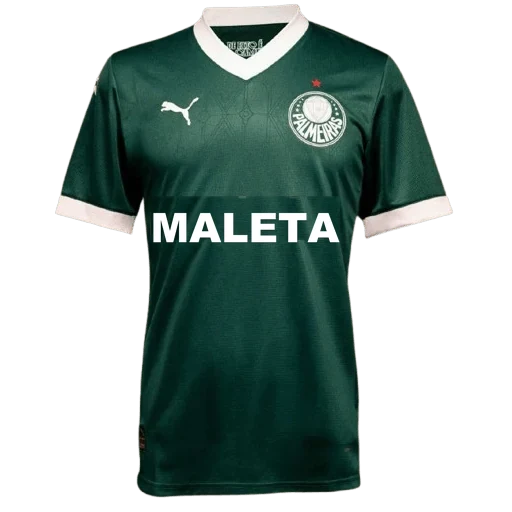
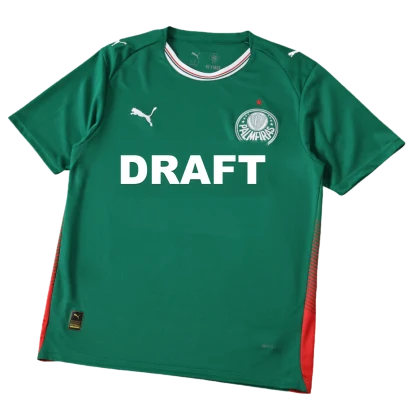
Vestiário: 22 camisas novas (Brasil e Europa), frente e costas do mesmo produto e do mesmo tamanho

diff --git a/src/home.ts b/src/home.ts
@@ -7,50 +7,50 @@ import {$, BODE, BODEHEAD, dayNum, esc, store, toast, todayKey} from "./core";
 import {GAMES, KIND, MODE, clockStop, dayLevel, dayLockKey, dayResult, drawFire, fireHTML, fmtDur, gameRng, isHard, loadStreak, resultKey, share, verdict} from "./engine";
 import {ST} from "./state";
 import {art} from "./art";
-import b0 from "./assets/kitback-flamengo.webp?url";
-import b1 from "./assets/kitback-real-madrid.webp?url";
-import b2 from "./assets/kitback-palmeiras.webp?url";
-import b3 from "./assets/kitback-barcelona.webp?url";
-import b4 from "./assets/kitback-corinthians.webp?url";
-import b5 from "./assets/kitback-man-utd.webp?url";
-import b6 from "./assets/kitback-sao-paulo.webp?url";
-import b7 from "./assets/kitback-liverpool.webp?url";
-import b8 from "./assets/kitback-santos.webp?url";
-import b9 from "./assets/kitback-bayern.webp?url";
-import b10 from "./assets/kitback-gremio.webp?url";
-import b11 from "./assets/kitback-juventus.webp?url";
-import b12 from "./assets/kitback-internacional.webp?url";
-import b13 from "./assets/kitback-ac-milan.webp?url";
-import b14 from "./assets/kitback-fluminense.webp?url";
-import b15 from "./assets/kitback-psg.webp?url";
-import b16 from "./assets/kitback-vasco.webp?url";
-import b17 from "./assets/kitback-chelsea.webp?url";
-import b18 from "./assets/kitback-botafogo.webp?url";
-import b19 from "./assets/kitback-arsenal.webp?url";
-import b20 from "./assets/kitback-cruzeiro.webp?url";
-import b21 from "./assets/kitback-dortmund.webp?url";
-import k0 from "./assets/kit-flamengo.webp?url";
+import k0 from "./assets/kit-palmeiras.webp?url";
+import b0 from "./assets/kitback-palmeiras.webp?url";
 import k1 from "./assets/kit-real-madrid.webp?url";
-import k2 from "./assets/kit-palmeiras.webp?url";
+import b1 from "./assets/kitback-real-madrid.webp?url";
+import k2 from "./assets/kit-corinthians.webp?url";
+import b2 from "./assets/kitback-corinthians.webp?url";
 import k3 from "./assets/kit-barcelona.webp?url";
-import k4 from "./assets/kit-corinthians.webp?url";
+import b3 from "./assets/kitback-barcelona.webp?url";
+import k4 from "./assets/kit-sao-paulo.webp?url";
+import b4 from "./assets/kitback-sao-paulo.webp?url";
 import k5 from "./assets/kit-man-utd.webp?url";
-import k6 from "./assets/kit-sao-paulo.webp?url";
+import b5 from "./assets/kitback-man-utd.webp?url";
+import k6 from "./assets/kit-fluminense.webp?url";
+import b6 from "./assets/kitback-fluminense.webp?url";
 import k7 from "./assets/kit-liverpool.webp?url";
-import k8 from "./assets/kit-santos.webp?url";
+import b7 from "./assets/kitback-liverpool.webp?url";
+import k8 from "./assets/kit-botafogo.webp?url";
+import b8 from "./assets/kitback-botafogo.webp?url";
 import k9 from "./assets/kit-bayern.webp?url";
-import k10 from "./assets/kit-gremio.webp?url";
+import b9 from "./assets/kitback-bayern.webp?url";
+import k10 from "./assets/kit-cruzeiro.webp?url";
+import b10 from "./assets/kitback-cruzeiro.webp?url";
 import k11 from "./assets/kit-juventus.webp?url";
-import k12 from "./assets/kit-internacional.webp?url";
-import k13 from "./assets/kit-ac-milan.webp?url";
-import k14 from "./assets/kit-fluminense.webp?url";
-import k15 from "./assets/kit-psg.webp?url";
-import k16 from "./assets/kit-vasco.webp?url";
-import k17 from "./assets/kit-chelsea.webp?url";
-import k18 from "./assets/kit-botafogo.webp?url";
-import k19 from "./assets/kit-arsenal.webp?url";
-import k20 from "./assets/kit-cruzeiro.webp?url";
-import k21 from "./assets/kit-dortmund.webp?url";
+import b11 from "./assets/kitback-juventus.webp?url";
+import k12 from "./assets/kit-athletico-pr.webp?url";
+import b12 from "./assets/kitback-athletico-pr.webp?url";
+import k13 from "./assets/kit-arsenal.webp?url";
+import b13 from "./assets/kitback-arsenal.webp?url";
+import k14 from "./assets/kit-palmeiras2.webp?url";
+import b14 from "./assets/kitback-palmeiras2.webp?url";
+import k15 from "./assets/kit-chelsea.webp?url";
+import b15 from "./assets/kitback-chelsea.webp?url";
+import k16 from "./assets/kit-athletico-pr2.webp?url";
+import b16 from "./assets/kitback-athletico-pr2.webp?url";
+import k17 from "./assets/kit-psg.webp?url";
+import b17 from "./assets/kitback-psg.webp?url";
+import k18 from "./assets/kit-inter.webp?url";
+import b18 from "./assets/kitback-inter.webp?url";
+import k19 from "./assets/kit-napoli.webp?url";
+import b19 from "./assets/kitback-napoli.webp?url";
+import k20 from "./assets/kit-atletico-madrid.webp?url";
+import b20 from "./assets/kitback-atletico-madrid.webp?url";
+import k21 from "./assets/kit-roma.webp?url";
+import b21 from "./assets/kitback-roma.webp?url";
 
 /* ---------- telas ---------- */
 export const NEW=["draft","leilao","maleta","reconstruindo","camisa","carreira","questoes","forca","velha","entrosa","piramide","top10","top100"];
@@ -80,7 +80,7 @@ export function stampFor(id,d,res){const v=verdict(id,res);
   return`<div class="stamp ${v.cls}"><span class="sv">${esc(v.cls==="score"?v.word:v.word==="GANHOU"?"VENCEU":v.word)}</span><span class="sl">${d==="hard"?"DIFÍCIL":"NORMAL"}</span></div>`}
 export function cleanup(){clockStop();if(ST.CLEAN){ST.CLEAN();ST.CLEAN=null}document.querySelectorAll(".modal").forEach(m=>m.remove())}
 /* camisas da tela inicial: cada jogo é uma camisa; ao clicar abre o card com as regras */
-const KITB=[b0,b1,b2,b3,b4,b5,b6,b7,b8,b9,b10,b11,b12,b13,b14,b15,b16,b17,b18,b19,b20,b21],KITS=[k0,k1,k2,k3,k4,k5,k6,k7,k8,k9,k10,k11,k12,k13,k14,k15,k16,k17,k18,k19,k20,k21],KITN=["flamengo", "real-madrid", "palmeiras", "barcelona", "corinthians", "man-utd", "sao-paulo", "liverpool", "santos", "bayern", "gremio", "juventus", "internacional", "ac-milan", "fluminense", "psg", "vasco", "chelsea", "botafogo", "arsenal", "cruzeiro", "dortmund"];
+const KITB=[b0,b1,b2,b3,b4,b5,b6,b7,b8,b9,b10,b11,b12,b13,b14,b15,b16,b17,b18,b19,b20,b21],KITS=[k0,k1,k2,k3,k4,k5,k6,k7,k8,k9,k10,k11,k12,k13,k14,k15,k16,k17,k18,k19,k20,k21],KITN=["palmeiras", "real-madrid", "corinthians", "barcelona", "sao-paulo", "man-utd", "fluminense", "liverpool", "botafogo", "bayern", "cruzeiro", "juventus", "athletico-pr", "arsenal", "palmeiras2", "chelsea", "athletico-pr2", "psg", "inter", "napoli", "atletico-madrid", "roma"];
 function gameModal(id){const g=GAMES[id];if(!g)return;document.querySelectorAll(".jmodal").forEach(m=>m.remove());
   const dr=MODE.free||g.multi?null:dayResult(id),cf=!MODE.multi&&!MODE.free&&g.cardFoot?g.cardFoot():null,v=dr?verdict(id,dr.res):null;
   const st=cf?cf:v?`<span class="res ${v.cls}">${v.cls==="score"?esc(v.word)+(KIND[id]?" PTS":" SEGUIDOS"):v.word==="GANHOU"?"VENCEU":v.word}</span>`:MODE.free?`<span class="chip rec">${fireHTML(Math.max(bestOf(id,"normal"),bestOf(id,"hard")))} recorde</span>`:"";

diff --git a/tools/kits_pairs.py b/tools/kits_pairs.py
@@ -1,0 +1,65 @@
+# Camisas do vestiário: frente e costas do mesmo produto (recortadas por usoa_pairs.py, mesmo tamanho).
+# Frente: apaga o patrocinador do peito (ou escreve no peito liso) e põe o nome do jogo. Costas: nome do jogo + número.
+# Uso: python3 tools/kits_pairs.py <pasta dos recortes>   ->  src/assets/kit-<slug>.webp e kitback-<slug>.webp
+import sys, os, cv2, numpy as np
+from PIL import Image, ImageDraw, ImageFont
+F="/System/Library/Fonts/Supplemental/";BLACK,NARROW=F+"Arial Black.ttf",F+"Arial Narrow Bold.ttf"
+C=lambda dy:("c",0,dy)
+NAMES=["DRAFT","LEILÃO","MALETA","RECONSTRUINDO","CAMISA E CONTA","CARREIRA","QUESTIONAMENTOS","FORCA","JOGO DA VELHA","ENTROSAMENTO","PIRÂMIDE","TOP 10","TOP 100","FUTGEO","QUEM É?","GRADE","CONEXÕES","BODLE","IMPOSTOR","ESCUDO","BINGO","MAIS VELHO?"]
+ORDER=["palmeiras","real-madrid","corinthians","barcelona","sao-paulo","man-utd","fluminense","liverpool","botafogo","bayern","cruzeiro","juventus","athletico-pr","arsenal","palmeiras2","chelsea","athletico-pr2","psg","inter","napoli","atletico-madrid","roma"]
+# slug: (caixa do patrocinador, modo, caixa do texto se não houver patrocinador, cor, contorno, [apagar nas costas])
+D={
+"palmeiras":((116,140,268,196),C(90),None,"#fff",None,[((146,66,262,104),C(60)),((230,44,262,64),C(60))]),
+"palmeiras2":((122,152,276,196),"i",None,"#0b5d3b",None,[((156,88,278,128),"i")]),
+"real-madrid":((146,154,266,218),C(95),None,"#14213d",None,[]),
+"corinthians":(None,None,(130,150,290,200),"#111",None,[]),
+"barcelona":((146,156,284,200),C(95),None,"#ffd21f","#0b1b4d",[((166,296,268,328),C(-60)),((196,48,222,62),"i")]),
+"sao-paulo":(None,None,(130,198,270,250),"#14213d",None,[]),
+"man-utd":((136,158,286,240),"i",None,"#fff",None,[]),
+"fluminense":((128,164,274,206),C(90),None,"#fff","#0b3b2a",[((196,34,226,48),"i")]),
+"liverpool":((142,162,282,212),C(90),None,"#fff",None,[]),
+"botafogo":((134,172,288,290),C(60),None,"#111",None,[((184,66,244,86),"i"),((194,298,240,314),"i")]),
+"bayern":((154,130,240,234),C(100),None,"#fff",None,[((140,58,236,104),C(50))]),
+"cruzeiro":(None,None,(130,150,290,200),"#fff",None,[((192,50,226,66),"i")]),
+"juventus":(None,None,(130,150,290,200),"#111","#fff",[]),
+"athletico-pr":(None,None,(130,150,290,200),"#fff","#111",[((188,40,240,60),"i")]),
+"arsenal":((136,150,286,215),C(90),None,"#fff",None,[((190,48,236,64),"i")]),
+"chelsea":(None,None,(130,150,290,200),"#fff",None,[((230,38,262,54),"i")]),
+"athletico-pr2":(None,None,(130,150,290,200),"#111",None,[((172,24,212,44),"i")]),
+"psg":((146,150,274,206),C(90),None,"#fff",None,[]),
+"inter":((126,134,276,190),C(80),None,"#fff","#0b1b4d",[]),
+"napoli":((146,156,294,204),C(100),None,"#fff",None,[]),
+"atletico-madrid":((146,160,300,265),C(105),None,"#14213d","#fff",[((200,56,230,72),"i")]),
+"roma":((178,142,268,262),"i",None,"#ffd21f",None,[]),
+}
+def erase(a,box,mode):
+    x0,y0,x1,y1=box;b=a.copy()
+    if mode=="i":
+        m=np.zeros(a.shape[:2],np.uint8);m[y0:y1,x0:x1]=255;b[:,:,:3]=cv2.inpaint(np.ascontiguousarray(a[:,:,:3]),m,5,cv2.INPAINT_TELEA);return b
+    _,dx,dy=mode;b[y0:y1,x0:x1]=a[y0+dy:y1+dy,x0+dx:x1+dx]
+    m=np.zeros(a.shape[:2],np.float32);m[y0:y1,x0:x1]=1;m=cv2.GaussianBlur(m,(0,0),1.6)[...,None];return (a*(1-m)+b*m).astype(np.uint8)
+def put(ov,txt,cx,cy,maxw,maxh,font,col,stroke,S):
+    for sz in range(220,6,-1):
+        f=ImageFont.truetype(font,sz*S);w=f.getlength(txt)
+        if w<=maxw*S and sz*0.74<=maxh:break
+    ImageDraw.Draw(ov).text((cx*S-w/2,cy*S),txt,font=f,fill=col,stroke_width=int(sz*S*0.06) if stroke else 0,stroke_fill=stroke or col,anchor="lm")
+def finish(a,items,col,stroke):
+    im=Image.fromarray(a);S=4;ov=Image.new("RGBA",(420*S,420*S),(0,0,0,0))
+    for t in items:put(ov,*t,col,stroke,S)
+    ov=ov.resize(im.size,Image.LANCZOS);sh=Image.new("RGBA",im.size,(0,0,0,0));sh.paste((0,0,0,55),(0,1),ov.split()[3])
+    return Image.alpha_composite(Image.alpha_composite(im,sh),ov)
+for i,club in enumerate(ORDER):
+    nm=NAMES[i];one=nm.replace("?","");box,mode,tb,col,stroke,berase=D[club]
+    fnt=NARROW if len(one)>8 else BLACK
+    # frente
+    a=cv2.cvtColor(cv2.imread(f"{sys.argv[1]}/{club}_f.png",cv2.IMREAD_UNCHANGED),cv2.COLOR_BGRA2RGBA)
+    if box:a=erase(a,box,mode)
+    bx=box or tb;x0,y0,x1,y1=bx;cx,cy=(x0+x1)/2,(y0+y1)/2
+    # centraliza no corpo da camisa quando o patrocinador está deslocado
+    finish(a,[(one if nm!="QUEM É?" else nm,cx,cy,max(x1-x0,min(168,len(one)*12)),max(y1-y0,30),fnt)],col,stroke).save(f"src/assets/kit-{club}.webp","WEBP",quality=88,method=4)
+    # costas
+    a=cv2.cvtColor(cv2.imread(f"{sys.argv[1]}/{club}_b.png",cv2.IMREAD_UNCHANGED),cv2.COLOR_BGRA2RGBA)
+    for b,m in berase:a=erase(a,b,m)
+    ys,xs=np.where(a[...,3]>128);y0,y1,x0,x1=ys.min(),ys.max(),xs.min(),xs.max();h,w=y1-y0,x1-x0;cx=(x0+x1)/2;mw=w*0.46
+    finish(a,[(one,cx,y0+h*0.22,mw,h*0.07,fnt),(f"{i+1:02d}",cx,y0+h*0.46,mw,h*0.27,BLACK)],col,stroke).save(f"src/assets/kitback-{club}.webp","WEBP",quality=88,method=4)
+    print(club,nm)

diff --git a/tools/usoa_pairs.py b/tools/usoa_pairs.py
@@ -1,0 +1,34 @@
+# Recorta frente e costas (fotos planas do usoa10, mesmo enquadramento) com o MESMO recorte/escala, para ficarem do mesmo tamanho.
+# Uso: python3 tools/usoa_pairs.py <pasta com <clube>/0.webp (frente) e 1.webp (costas)> <pasta de saída>
+import cv2, numpy as np, sys, os
+SRC,OUT=sys.argv[1],sys.argv[2];os.makedirs(OUT,exist_ok=True)
+def mask(im):
+    h,w=im.shape[:2];fl=im.copy();ff=np.zeros((h+2,w+2),np.uint8)
+    for sx,sy in [(1,1),(w-2,1),(1,h-2),(w-2,h-2),(w//2,1),(w//2,h-2),(1,h//2),(w-2,h//2)]:
+        if im[sy,sx].min()>235:cv2.floodFill(fl,ff,(sx,sy),(0,0,0),(5,5,5),(5,5,5),cv2.FLOODFILL_MASK_ONLY|cv2.FLOODFILL_FIXED_RANGE|(255<<8))
+    m=np.where(ff[1:-1,1:-1]>0,0,255).astype(np.uint8)
+    n,lab,st,_=cv2.connectedComponentsWithStats(m)
+    if n>1:m=np.where(lab==1+np.argmax(st[1:,4]),255,0).astype(np.uint8)
+    m=cv2.morphologyEx(m,cv2.MORPH_CLOSE,np.ones((7,7),np.uint8))
+    cnt,_=cv2.findContours(m,cv2.RETR_EXTERNAL,cv2.CHAIN_APPROX_SIMPLE);f=np.zeros_like(m);cv2.drawContours(f,cnt,-1,255,-1)
+    return cv2.GaussianBlur(cv2.erode(f,np.ones((3,3),np.uint8)),(0,0),1.1)
+HANGER={"botafogo"}   # costas fotografadas num cabide: tira a madeira do recorte
+def no_hanger(im,m):
+    hsv=cv2.cvtColor(im,cv2.COLOR_BGR2HSV);ys,xs=np.where(m>128);y0,y1=ys.min(),ys.max()
+    hang=((hsv[...,0]>=6)&(hsv[...,0]<=24)&(hsv[...,1]>70)&(hsv[...,2]>45)).astype(np.uint8)*255;hang[int(y0+(y1-y0)*.3):]=0;hang=cv2.dilate(hang,np.ones((7,7),np.uint8))
+    m2=cv2.bitwise_and(m,cv2.bitwise_not(hang));cl=cv2.morphologyEx((m2>128).astype(np.uint8)*255,cv2.MORPH_CLOSE,cv2.getStructuringElement(cv2.MORPH_ELLIPSE,(41,41)))
+    fill=cv2.bitwise_and(cl,cv2.bitwise_not((m2>128).astype(np.uint8)*255));ink=cv2.inpaint(im,cv2.dilate(fill,np.ones((3,3),np.uint8)),7,cv2.INPAINT_TELEA);im=im.copy();im[fill>0]=ink[fill>0]
+    return im,cv2.GaussianBlur(cl,(0,0),1.0)
+for club in sorted(os.listdir(SRC)):
+    ims=[cv2.imread(f"{SRC}/{club}/{i}.webp") for i in (0,1)]
+    if any(x is None for x in ims):continue
+    ims=[cv2.resize(x,(1024,1024)) if x.shape[:2]!=(1024,1024) else x for x in ims]
+    ms=[mask(x) for x in ims]
+    if club in HANGER:ims[1],ms[1]=no_hanger(ims[1],ms[1])
+    allm=np.maximum(ms[0],ms[1]);ys,xs=np.where(allm>128)
+    x0,x1,y0,y1=xs.min(),xs.max(),ys.min(),ys.max();s=404/max(y1-y0+1,x1-x0+1)
+    for tag,im,m in zip("fb",ims,ms):
+        rgba=np.dstack([im,m])[y0:y1+1,x0:x1+1];rgba=cv2.resize(rgba,(max(1,int(rgba.shape[1]*s)),max(1,int(rgba.shape[0]*s))),interpolation=cv2.INTER_AREA)
+        c=np.zeros((420,420,4),np.uint8);oy=(420-rgba.shape[0])//2;ox=(420-rgba.shape[1])//2;c[oy:oy+rgba.shape[0],ox:ox+rgba.shape[1]]=rgba
+        cv2.imwrite(f"{OUT}/{club}_{tag}.png",c)
+    print(club)
